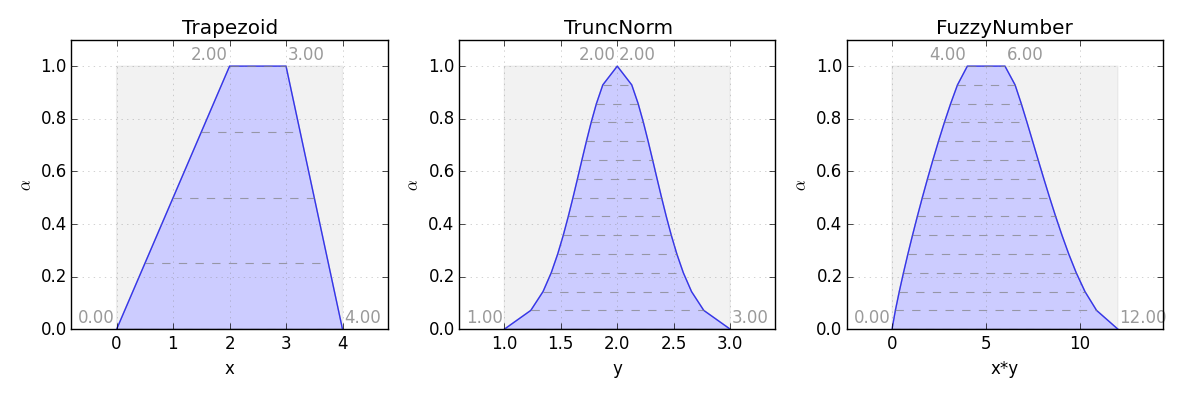
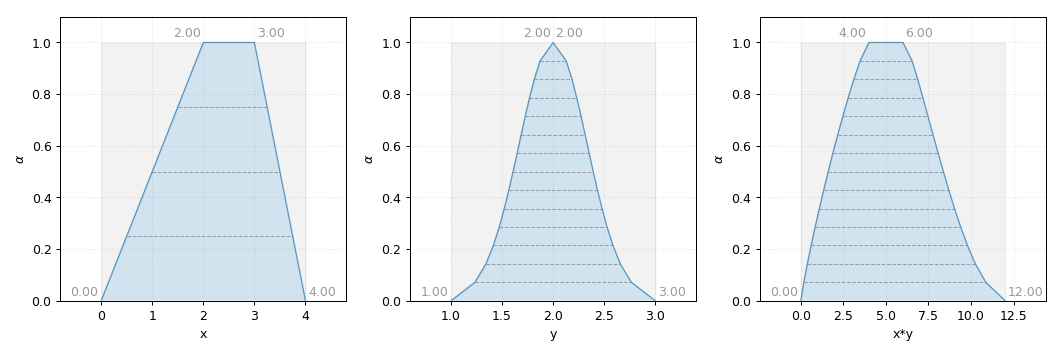
update pitchme

diff --git a/doc/plot_fuzzy_numbers.py b/doc/plot_fuzzy_numbers.py
@@ -7,16 +7,6 @@ import numpy as np
 
 import phuzzy.mpl as phm
 
-def test_dyn_mix():
-    p = phuzzy.Trapezoid(alpha0=[1, 4], alpha1=[2, 3], number_of_alpha_levels=5)
-    print(p)
-    print(p.df)
-    p.convert_df(5)
-    print(p.df)
-    assert not hasattr(p, "plot")
-    mix_mpl(p)
-    assert hasattr(p, "plot")
-
 
 def plot():
 
@@ -174,6 +164,12 @@ def plot_pow2():
     H = 300.  # mm
     B = 300.  # mm
     fig, axs = plt.subplots(3, 3, dpi=90, facecolor='w', edgecolor='k', figsize=(B / 25.4, H / 25.4))
+
+    for i in range(3):
+        axs[0,i].get_shared_x_axes().join(axs[0,i],axs[1,i],axs[2,i])
+
+        axs[i,0].get_shared_y_axes().join(axs[i,0],axs[i,1],axs[i,1])
+
     x = phuzzy.Trapezoid(alpha0=[0, 4], alpha1=[2, 3], number_of_alpha_levels=5)
     mix_mpl(x)
     x.plot(ax=axs[0, 0])
@@ -187,23 +183,43 @@ def plot_pow2():
     mix_mpl(z)
     z.plot(ax=axs[0, 2])
 
-    b = np.linspace(0, 5, 200)
+    b = np.linspace(-1, 5, 200)
 
     px = x.pdf(b)
     Px = x.cdf(b)
-    axs[1, 0].plot(b, px, label="pdf", lw=2)
-    axs[2, 0].plot(b, Px, label="cdf", lw=2)
+    axs[1, 0].fill_between(b, 0, px, alpha=.2)
+    axs[1, 0].plot(b, px, label="pdf", lw=1)
+    axs[2, 0].fill_between(b, 0, Px, alpha=.2)
+    axs[2, 0].plot(b, Px, label="cdf", lw=1)
 
     py = y.pdf(b)
     Py = y.cdf(b)
-    axs[1, 1].plot(b, py, label="pdf", lw=2)
-    axs[2, 1].plot(b, Py, label="cdf", lw=2)
+    axs[1, 1].fill_between(b, 0, py, alpha=.2)
+    axs[1, 1].plot(b, py, label="pdf", lw=1)
+    axs[2, 1].fill_between(b, 0, Py, alpha=.2)
+    axs[2, 1].plot(b, Py, label="cdf", lw=1)
 
     b = np.linspace(z.alpha0["low"], z.alpha0["high"], 200)
     pz = z.pdf(b)
     Pz = z.cdf(b)
-    axs[1, 2].plot(b, pz, label="pdf", lw=2)
-    axs[2, 2].plot(b, Pz, label="cdf", lw=2)
+    axs[1, 2].fill_between(b, 0, pz, alpha=.2)
+    axs[1, 2].plot(b, pz, label="pdf", lw=1)
+    axs[2, 2].fill_between(b, 0, Pz, alpha=.2)
+    axs[2, 2].plot(b, Pz, label="cdf", lw=1)
+
+    for i in range(3):
+        axs[2,i].axhline(1, alpha=.4, c="k", lw=.5)
+        # axs[1,i].set_ylabel("pdf")
+        # axs[2,i].set_ylabel("cdf")
+        axs[1,i].annotate('pdf', (0.01, 0.99), xycoords='axes fraction', size=8, ha='left', va='top', textcoords='axes fraction')
+        axs[2,i].annotate('cdf', (0.01, 0.99), xycoords='axes fraction', size=8, ha='left', va='top', textcoords='axes fraction')
+
+    # axs[1,1].sharex = axs[0,1]
+    # axs[2,1].sharex = axs[0,1]
+    # axs[1,1].share_x_axes(axs[0,1])
+
+    for ax in axs.ravel():
+        ax.set_ylim(0, None)
 
     fig.tight_layout()
     fig.savefig("x^y.png")
@@ -267,6 +283,6 @@ if __name__ == '__main__':
     # plot_mul()
     # plot_div()
     # plot_pow()
-    # plot_pow2()
+    plot_pow2()
     # plot_gennorm_mix()
-    plot_superellipse()
+    # plot_superellipse()
